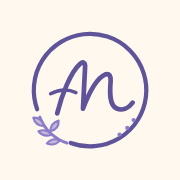
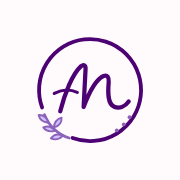
style: apply Maria's purple, lilac and gold palette
Maria prefers the site as it was before today's redesign, so the branch
keeps the version that 0d23e50 put back, and the redesign is dropped.
On top of it, her new palette: purple #4c0273, lilac #cec2ff and gold
#ebc000 on a near-white ground (#fffbfd), which keeps the lilac sections
clean and lets the gold stand out.

The purple carries headings, links and buttons (13.1:1 on the ground,
13.4:1 with white text). Lilac and gold are fills and details, always
with ink or purple text on top: as text on a light ground they reach
only 1.7:1. Supporting tones are derived from her three colours: the
tinted sections, a darker purple for hover and the closing band, and a
mid purple for the logo strokes and list markers, which is decorative
only.

The logo mark, favicon and touch icon follow the new colours. A contrast
scan of the rendered main pages, in both languages, finds no text below
AA.

Changed region(s): [[0.1667, 0.1667, 0.8333, 0.8333]]

diff --git a/src/styles/global.css b/src/styles/global.css
@@ -2,19 +2,26 @@
 @plugin '@tailwindcss/typography';
 
 @theme {
-  /* Warm lilac palette (direction A). Names describe the role, not the colour,
-     so a palette change only touches these lines. Every text pair passes AA:
-     primary on bg 6.3:1, white on primary 6.6:1, muted on bg 6.9:1. */
-  --color-bg: #fff8ee;
-  --color-surface: #f4f0fa;
-  --color-primary: #5f5399;
-  --color-primary-strong: #4a3f82;
-  --color-accent: #8b7ec8;
-  --color-line: #c8b6db;
-  --color-sun: #ffca5c;
-  --color-sun-strong: #f5b732;
-  --color-ink: #2a2433;
-  --color-muted: #5a5466;
+  /* Maria's palette: purple #4c0273, lilac #cec2ff and gold #ebc000 on a
+     near-white ground. Names describe the role, not the colour, so a palette
+     change only touches these lines. Every text pair passes AA: primary on bg
+     13.1:1, white on primary 13.4:1, ink on bg 15.2:1, muted on bg 7:1, ink
+     on gold 9:1. Gold and lilac are never text on a light ground (1.7:1). */
+  --color-bg: #fffbfd;
+  /* A quarter of Maria's lilac over the ground, for tinted sections. */
+  --color-surface: #f3edfe;
+  --color-primary: #4c0273;
+  /* Hover and the closing band: the purple with 20% black. */
+  --color-primary-strong: #3d025c;
+  /* Halfway between the purple and the lilac. Decorative only (logo strokes,
+     list markers, halos): 4.5:1 is just short of AA for text. */
+  --color-accent: #8d62b9;
+  --color-line: #cec2ff;
+  /* Always with ink or purple text on top, never white. */
+  --color-sun: #ebc000;
+  --color-sun-strong: #d4ad00;
+  --color-ink: #2a1f35;
+  --color-muted: #5e5468;
 
   /* Each blog category has its own colour: very desaturated pastels. Every
      background/text pair passes AA (lowest measured contrast: 5.75:1). */
@@ -37,8 +44,8 @@
   --font-display: 'Plus Jakarta Sans Variable', 'Plus Jakarta Sans', ui-sans-serif, system-ui, sans-serif;
   --font-sans: 'Plus Jakarta Sans Variable', 'Plus Jakarta Sans', ui-sans-serif, system-ui, sans-serif;
 
-  --shadow-primary: 0 12px 32px -16px rgb(74 63 130 / 0.35);
-  --shadow-soft: 0 6px 20px -10px rgb(42 36 51 / 0.12);
+  --shadow-primary: 0 12px 32px -16px rgb(76 2 115 / 0.3);
+  --shadow-soft: 0 6px 20px -10px rgb(42 31 53 / 0.12);
 }
 
 html {
